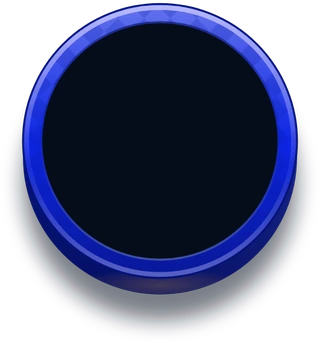
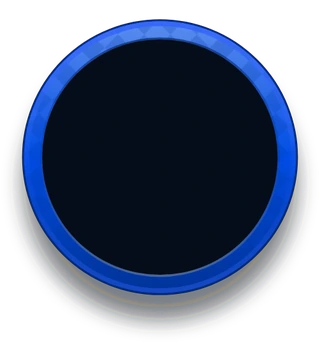
Top bar: the opponent's ring without the extrusion
The cut's blue ring carries a deeper extrusion than the gold one. The
opponent now wears the player's ring recoloured to the kit's blue, so both
sides share one geometry and the rim is the same thin one.

Claude-Session: https://claude.ai/code/session_01CdCWBBELLp3cWMWqqhgQtC

Changed region(s): [[0.0625, 0.0, 0.9375, 0.8746]]

diff --git a/src/ui/theme.css b/src/ui/theme.css
@@ -2392,7 +2392,9 @@ body.board-shake .battlefield { animation: board-shake 0.32s cubic-bezier(0.36, 
    wordless plate 514 by 130.5 at 1x; --u is its 1x pixel at the size it is drawn (the board draws it at 0.9006, 463
    wide on a 1920 stage). The avatar ring (251 by 269 at 1x, drawn at 0.5959 of the strip) hangs off the strip's end
    with its centre at (0.55, 30.89) from the shell for you and (466.79, 38.52) for the opponent; the portrait is
-   clipped to the ring's well and drawn over it, then the level chip, then the Legend count riding the chip. */
+   clipped to the ring's well and drawn over it, then the level chip, then the Legend count riding the chip. The
+   opponent's ring is the player's ring recoloured to the kit's blue (the cut's blue ring carries a deeper extrusion),
+   so both sides share one geometry. */
 .hud { --np: clamp(240px, 24.1vw, 463px); --u: calc(var(--np) / 514); --np-h: calc(var(--u) * 130.5); }
 .np { position: relative; display: block; width: var(--np); height: var(--np-h); flex: none; cursor: pointer; margin-left: calc(var(--u) * 68); justify-self: start; }
 .np.right { margin-left: 0; margin-right: calc(var(--u) * 68); justify-self: end; }
@@ -2406,16 +2408,15 @@ body.board-shake .battlefield { animation: board-shake 0.32s cubic-bezier(0.36, 
 .np .handle { font-family: var(--display); font-weight: 700; font-size: calc(var(--u) * 21); letter-spacing: 0.02em; color: var(--parchment); text-shadow: 0 1px 2px rgba(0, 0, 0, 0.7); }
 .np .sub { font-family: var(--font); font-size: calc(var(--u) * 13); color: #d9cfb4; white-space: nowrap; overflow: hidden; text-overflow: ellipsis; }
 .np-avatar { position: absolute; width: calc(var(--u) * 149.6); height: calc(var(--u) * 160.3); left: calc(var(--u) * -56.1); top: calc(var(--u) * -33.2); z-index: 2; transition: filter 0.4s; }
-.np.right .np-avatar { left: calc(var(--u) * 410.1); top: calc(var(--u) * -18); }
+.np.right .np-avatar { left: calc(var(--u) * 410.1); top: calc(var(--u) * -25.6); }
 .np-ring, .np-chip { position: absolute; inset: 0; background: var(--kit-np-you-ring) center / 100% 100% no-repeat; pointer-events: none; }
 .np-chip { background-image: var(--kit-np-you-chip); }
 .np.pB .np-ring { background-image: var(--kit-np-opp-ring); }
 .np.pB .np-chip { background-image: var(--kit-np-opp-chip); }
 .np-portrait { position: absolute; left: 13.15%; top: 11.45%; width: 73.55%; height: 68.62%; border-radius: 50%; overflow: hidden; background: #0a1626; display: grid; place-items: center; font-family: var(--display); font-weight: 800; color: rgba(255, 255, 255, 0.8); }
-.np.pB .np-portrait { top: 6.73%; }
 .np-portrait .avatar-img { width: 100%; height: 100%; object-fit: cover; object-position: center 18%; }
 .np-level { position: absolute; left: 49.9%; top: 82.5%; transform: translate(-50%, -50%); font-family: system-ui, 'Segoe UI', Roboto, sans-serif; font-weight: 900; font-size: calc(var(--u) * 14.5); line-height: 1; color: #674605; cursor: help; }
-.np.pB .np-level { top: 77.8%; color: #051167; }
+.np.pB .np-level { color: #051167; }
 .np-level.spread { text-shadow: 0 0 6px rgba(255, 246, 214, 0.9); }
 /* Whose turn it is to go first: the ring glows in their colour. */
 .np.first .np-avatar { filter: drop-shadow(0 0 6px rgba(246, 215, 122, 0.9)) drop-shadow(0 0 16px rgba(233, 185, 58, 0.55)); }
